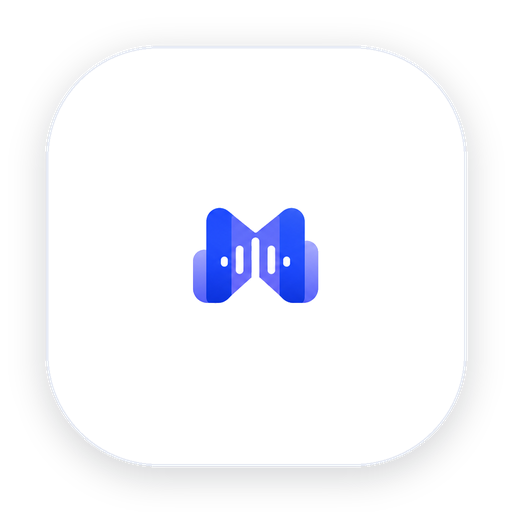
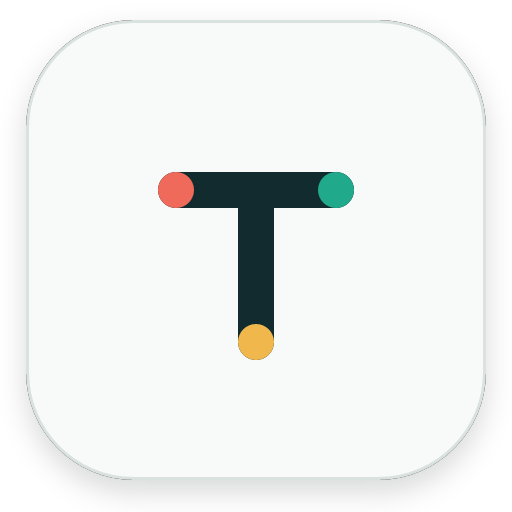
feat(website): publish the Talktrace website experience

diff --git a/website/index.html b/website/index.html
@@ -8,14 +8,14 @@
     <link rel="manifest" href="/site.webmanifest" />
     <link
       rel="preload"
-      href="/fonts/meeting-copilot-sans-sc.woff2"
+      href="/fonts/talktrace-sans-sc.woff2"
       as="font"
       type="font/woff2"
       crossorigin
     />
     <link
       rel="preload"
-      href="/product/meeting-copilot-review-0.1.0-20260730.webp"
+      href="/product/talktrace-review-0.1.0-20260803.webp"
       as="image"
       type="image/webp"
       fetchpriority="high"
@@ -25,29 +25,29 @@
     <link rel="canonical" href="https://meeting.codexai.club/" />
     <meta
       name="description"
-      content="Meeting Copilot 是中文技术会议的实时副驾驶：维护当前议题和未闭环问题，在还来得及追问时给出可以回到原话的建议。"
+      content="言迹 Talktrace 是本地优先的 AI 会议工作台：整理连续转写、维护当前议题和未闭环问题，并给出可以回到原话的建议。"
     />
     <meta property="og:type" content="website" />
     <meta property="og:locale" content="zh_CN" />
-    <meta property="og:site_name" content="Meeting Copilot" />
+    <meta property="og:site_name" content="言迹 Talktrace" />
     <meta property="og:url" content="https://meeting.codexai.club/" />
-    <meta property="og:title" content="Meeting Copilot · 技术会议的实时副驾驶" />
+    <meta property="og:title" content="言迹 Talktrace · 本地优先的 AI 会议工作台" />
     <meta
       property="og:description"
       content="让每一次技术会议，都更接近一个可执行的决定。"
     />
     <meta
       property="og:image"
-      content="https://meeting.codexai.club/product/meeting-copilot-review-0.1.0-20260730.webp"
+      content="https://meeting.codexai.club/product/talktrace-review-0.1.0-20260803.webp"
     />
     <meta name="twitter:card" content="summary_large_image" />
-    <meta name="twitter:title" content="Meeting Copilot · 技术会议的实时副驾驶" />
+    <meta name="twitter:title" content="言迹 Talktrace · 本地优先的 AI 会议工作台" />
     <meta name="twitter:description" content="让每一次技术会议，都更接近一个可执行的决定。" />
     <meta
       name="twitter:image"
-      content="https://meeting.codexai.club/product/meeting-copilot-review-0.1.0-20260730.webp"
+      content="https://meeting.codexai.club/product/talktrace-review-0.1.0-20260803.webp"
     />
-    <title>Meeting Copilot · 技术会议的实时副驾驶</title>
+    <title>言迹 Talktrace · 本地优先的 AI 会议工作台</title>
   </head>
   <body>
     <div id="root"></div>

diff --git a/website/src/pages/HomePage.tsx b/website/src/pages/HomePage.tsx
@@ -19,10 +19,13 @@ export function HomePage() {
               {site.stage}
               <a href="/changelog">查看更新</a>
             </div>
-            <h1 id="hero-title">Meeting Copilot</h1>
+            <h1 id="hero-title">
+              <span>言迹</span>
+              <small>Talktrace</small>
+            </h1>
             <p className="hero-copy__promise">让每一次技术会议，都更接近一个可执行的决定。</p>
             <p className="hero-copy__description">
-              Meeting Copilot 把连续发言整理成可阅读的会议上下文，维护当前议题与未闭环问题，并在还来得及追问时给出可以回到原话的建议。
+              言迹把连续发言整理成可阅读的会议上下文，维护当前议题与未闭环问题，并在还来得及追问时给出可以回到原话的建议。
             </p>
             <div className="hero-copy__actions">
               <a className="button button--primary button--large" href={site.windowsDownloadUrl}>
@@ -68,7 +71,7 @@ export function HomePage() {
       <section className="gap-section" id="problem" aria-labelledby="problem-title">
         <div className="container">
           <div className="section-heading section-heading--center" data-reveal>
-            <span className="eyebrow">为什么需要会议副驾驶</span>
+            <span className="eyebrow">在散会之前看见问题</span>
             <h2 id="problem-title">真正让技术会议失效的，往往不是没记录。</h2>
             <p>而是讨论结束后，关键工程条件仍然没有闭环。</p>
           </div>

diff --git a/website/src/components/SiteLayout.tsx b/website/src/components/SiteLayout.tsx
@@ -6,16 +6,16 @@ import { site } from '../content/site'
 
 const pageMetadata: Record<string, { title: string; description: string }> = {
   '/': {
-    title: 'Meeting Copilot · 技术会议的实时副驾驶',
+    title: '言迹 Talktrace · 本地优先的 AI 会议工作台',
     description: '让每一次技术会议，都更接近一个可执行的决定。',
   },
   '/docs': {
-    title: '产品文档 · Meeting Copilot',
-    description: '了解 Meeting Copilot 当前能力、OpenAI-compatible 分析服务、隐私与发布边界。',
+    title: '产品文档 · 言迹 Talktrace',
+    description: '了解言迹 Talktrace 当前能力、OpenAI-compatible 分析服务、隐私与发布边界。',
   },
   '/changelog': {
-    title: '更新日志 · Meeting Copilot',
-    description: '查看 Meeting Copilot 的产品、体验与官网更新。',
+    title: '更新日志 · 言迹 Talktrace',
+    description: '查看言迹 Talktrace 的产品、体验与官网更新。',
   },
 }
 
@@ -24,8 +24,8 @@ function PageMetadata() {
 
   useEffect(() => {
     const metadata = pageMetadata[pathname] || {
-      title: '页面未找到 · Meeting Copilot',
-      description: 'Meeting Copilot 产品网站。',
+      title: '页面未找到 · 言迹 Talktrace',
+      description: '言迹 Talktrace 产品网站。',
     }
     const canonicalPath = pageMetadata[pathname] ? pathname : '/'
     const canonicalUrl = new URL(canonicalPath, site.publicUrl).toString()

diff --git a/website/src/content/site.ts b/website/src/content/site.ts
@@ -16,16 +16,16 @@ export type Scenario = {
 const configuredTrialUrl = import.meta.env.VITE_TRIAL_URL?.trim()
 
 export const site = {
-  name: 'Meeting Copilot',
-  chineseName: '会议助手',
+  name: 'Talktrace',
+  chineseName: '言迹',
   publicUrl: 'https://meeting.codexai.club/',
   stage: 'Windows 0.1.0 · 公开预览',
   description:
-    'Meeting Copilot 是本地优先的中文会议助手，把连续转写整理成可阅读上下文，并在会中维护当前议题、建议和未闭环问题。',
+    '言迹 Talktrace 是本地优先的中文会议记录与知识整理工具，把连续转写整理成可阅读上下文，并在会中维护当前议题、建议和未闭环问题。',
   windowsDownloadUrl:
-    'https://github.com/luguochang/meeting-copilot/releases/download/v0.1.0/Meeting-Copilot-0.1.0-windows-x64-base-unsigned.exe',
+    'https://github.com/luguochang/meeting-copilot/releases/download/v0.1.0/Talktrace-0.1.0-windows-x64-base-unsigned.exe',
   windowsChecksumUrl:
-    'https://github.com/luguochang/meeting-copilot/releases/download/v0.1.0/Meeting-Copilot-0.1.0-windows-x64-base-unsigned.exe.sha256',
+    'https://github.com/luguochang/meeting-copilot/releases/download/v0.1.0/Talktrace-0.1.0-windows-x64-base-unsigned.exe.sha256',
   trialUrl: configuredTrialUrl || '/docs#release',
   trialLabel: configuredTrialUrl ? '提交反馈' : '查看发布说明',
   demoUrl: import.meta.env.VITE_DEMO_URL || '/#product-preview',

diff --git a/website/src/components/ProductPreview.tsx b/website/src/components/ProductPreview.tsx
@@ -10,15 +10,15 @@ const previewContent: Record<
   live: {
     label: '会中工作台',
     eyebrow: '连续文字、上下文选择与 Ask AI',
-    image: '/product/meeting-copilot-live-0.1.0-20260730.webp',
-    alt: 'Meeting Copilot 0.1.0 会中工作台，左侧显示连续会议文字，右侧提供上下文范围和 Ask AI 提问区',
+    image: '/product/talktrace-live-0.1.0-20260803.webp',
+    alt: '言迹 Talktrace 0.1.0 会中工作台，左侧显示连续会议文字，右侧提供上下文范围和 Ask AI 提问区',
     caption: '连续发言按时间整理成可回顾的上下文，右侧可按最近内容、当前章节或整场会议继续追问。',
   },
   review: {
     label: '会后复盘',
     eyebrow: '纪要、风险、问题与行动项',
-    image: '/product/meeting-copilot-review-0.1.0-20260730.webp',
-    alt: 'Meeting Copilot 0.1.0 会后复盘界面，展示会议摘要、关键结论、风险、未解问题、AI 建议与证据片段',
+    image: '/product/talktrace-review-0.1.0-20260803.webp',
+    alt: '言迹 Talktrace 0.1.0 会后复盘界面，展示会议摘要、关键结论、风险、未解问题、AI 建议与证据片段',
     caption: '会后在同一页查看摘要、结论、风险、未解问题、下一步与对应证据片段。',
   },
 }

diff --git a/website/src/content/changelog.ts b/website/src/content/changelog.ts
@@ -9,6 +9,18 @@ export type ChangeLogEntry = {
 
 export const changelog: ChangeLogEntry[] = [
   {
+    date: '2026-08-03',
+    version: 'Brand Update',
+    status: '产品',
+    title: '品牌更新为言迹 Talktrace',
+    summary: '统一桌面客户端、官网、安装器和文档中的中英文名称与视觉标识，内部兼容标识保持不变。',
+    items: [
+      '中文名“言迹”对应英文名“Talktrace”，共同表达对话、证据与行动轨迹',
+      '更新应用图标、导航品牌、窗口标题、官网元数据与公开文档',
+      '保留原应用标识符、数据目录和环境变量，避免升级后历史数据不可见',
+    ],
+  },
+  {
     date: '2026-07-31',
     version: 'Windows Installer Update',
     status: '产品',
@@ -36,7 +48,7 @@ export const changelog: ChangeLogEntry[] = [
   },
   {
     date: '2026-07-30',
-    version: 'Meeting Copilot 0.1.0',
+    version: 'Talktrace 0.1.0',
     status: '公开预览',
     title: 'Windows 基础安装包进入公开预览',
     summary: '首版采用基础客户端与离线能力包分离交付，官网、下载清单、品牌图标和用户文档同步更新。',

diff --git a/website/src/components/SiteFooter.tsx b/website/src/components/SiteFooter.tsx
@@ -34,7 +34,7 @@ export function SiteFooter() {
       <div className="site-footer__inner">
         <div className="site-footer__brand">
           <Brand inverse />
-          <p>技术会议的实时副驾驶。让重要问题在散会前被看见。</p>
+          <p>本地优先的会议记录与知识整理工具。让重要问题在散会前被看见。</p>
           <span>{site.stage}</span>
         </div>
         <div className="site-footer__links">
@@ -57,7 +57,7 @@ export function SiteFooter() {
         </div>
       </div>
       <div className="site-footer__legal">
-        <p>© 2026 luguochang. Meeting Copilot Windows 0.1.0 公开预览版。</p>
+        <p>© 2026 luguochang. 言迹 Talktrace Windows 0.1.0 公开预览版。</p>
         <p>产品截图使用脱敏演示数据，实际功能以安装包为准。</p>
       </div>
     </footer>

diff --git a/website/src/components/Brand.tsx b/website/src/components/Brand.tsx
@@ -7,16 +7,16 @@ type BrandProps = {
 
 export function Brand({ inverse = false, compact = false }: BrandProps) {
   return (
-    <Link className={`brand${inverse ? ' brand--inverse' : ''}`} to="/" aria-label="Meeting Copilot 首页">
+    <Link className={`brand${inverse ? ' brand--inverse' : ''}`} to="/" aria-label="言迹 Talktrace 首页">
       <img
-        src={inverse ? '/brand/meeting-copilot-mark-white.png' : '/brand/meeting-copilot-mark.png'}
+        src={inverse ? '/brand/talktrace-mark-white.svg' : '/brand/talktrace-mark.svg'}
         width="40"
         height="40"
         alt=""
       />
       <span className="brand__text">
-        <strong>Meeting Copilot</strong>
-        {!compact && <small>会议助手</small>}
+        <strong>言迹</strong>
+        {!compact && <small>TALKTRACE</small>}
       </span>
     </Link>
   )

diff --git a/website/src/components/ReleasePanel.tsx b/website/src/components/ReleasePanel.tsx
@@ -51,12 +51,12 @@ export function ReleasePanel() {
           height="112"
           loading="lazy"
           decoding="async"
-          alt="Meeting Copilot 应用图标"
+          alt="言迹 Talktrace 应用图标"
         />
       </div>
       <div className="release-panel__copy">
         <span className="eyebrow">{publicRelease ? 'Windows 公开预览' : 'Controlled Preview'}</span>
-        <h2>{publicRelease ? '下载 Meeting Copilot' : '先从一场真实技术会议开始内测。'}</h2>
+        <h2>{publicRelease ? '下载言迹 Talktrace' : '先从一场真实技术会议开始内测。'}</h2>
         <p>
           {manifest?.note ||
             '当前正在补齐桌面原生采集、签名、公证和干净机器安装验证。官网先开放产品演示与内测申请。'}

diff --git a/website/src/styles/tokens.css b/website/src/styles/tokens.css
@@ -1,9 +1,9 @@
 @font-face {
-  font-family: 'Meeting Copilot Sans';
+  font-family: 'Talktrace Sans';
   font-style: normal;
   font-display: swap;
   font-weight: 400 750;
-  src: url('/fonts/meeting-copilot-sans-sc.woff2') format('woff2-variations');
+  src: url('/fonts/talktrace-sans-sc.woff2') format('woff2-variations');
 }
 
 :root {
@@ -28,7 +28,7 @@
   --color-danger: #cc2936;
   --color-focus: #284dff;
 
-  --font-sans: 'Meeting Copilot Sans', 'Noto Sans SC', 'Source Han Sans SC', 'PingFang SC', 'Microsoft YaHei', sans-serif;
+  --font-sans: 'Talktrace Sans', 'Noto Sans SC', 'Source Han Sans SC', 'PingFang SC', 'Microsoft YaHei', sans-serif;
   --font-mono: 'SFMono-Regular', Consolas, 'Liberation Mono', monospace;
 
   --container: 1320px;

diff --git a/website/src/pages/DocsPage.tsx b/website/src/pages/DocsPage.tsx
@@ -57,7 +57,7 @@ export function DocsPage() {
             <span className="docs-kicker">01</span>
             <h2>当前产品是什么</h2>
             <p>
-              Meeting Copilot 是面向中文技术会议的实时副驾驶。它维护当前议题和未闭环问题，在仍来得及追问时给出一条带证据的建议；会后保留连续文字、录音和复盘。
+              言迹 Talktrace 是面向中文技术会议的本地优先工作台。它维护当前议题和未闭环问题，在仍来得及追问时给出一条带证据的建议；会后保留连续文字、录音和复盘。
             </p>
             <div className="docs-callout docs-callout--info">
               <Icon name="info" size={20} />

diff --git a/website/src/components/WorkflowOrbit.tsx b/website/src/components/WorkflowOrbit.tsx
@@ -12,7 +12,7 @@ export function WorkflowOrbit() {
       <div className="workflow-orbit__visual" aria-label="会议闭环五个步骤">
         <div className="workflow-orbit__ring" aria-hidden="true" />
         <div className="workflow-orbit__core" aria-live="polite">
-          <img src="/brand/meeting-copilot-mark.png" width="52" height="52" alt="" />
+          <img src="/brand/talktrace-mark.svg" width="52" height="52" alt="" />
           <span>0{activeIndex + 1} / 05</span>
           <strong>{activeStep.shortLabel}</strong>
         </div>
